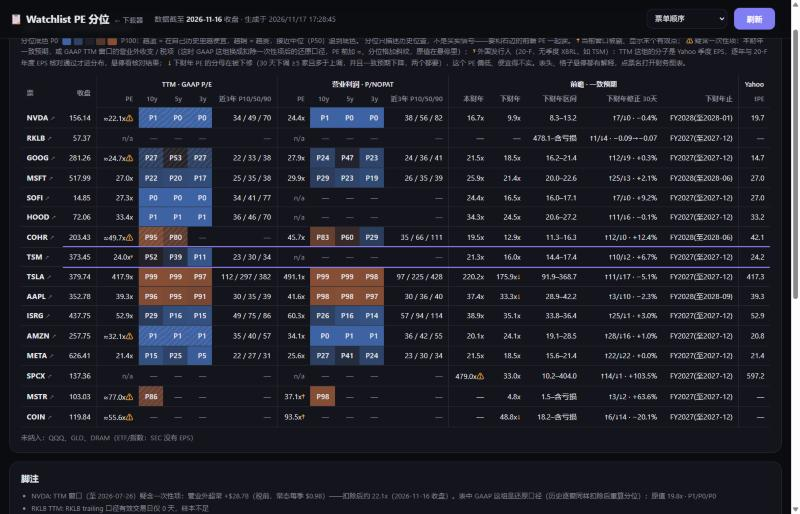
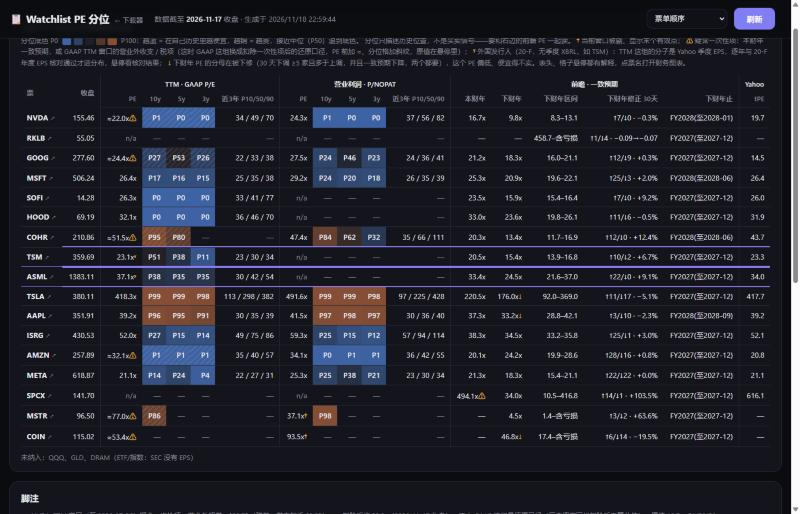
外国发行人兜底：Yahoo EPS 币种逐年判定（ASML 近年欧元、早年美元）
ASML 跑兜底时推不出换股比：Yahoo 季度 EPS 2013 年起是欧元（与 20-F 完全吻合），
之前是美元；TSM 则一直是每 ADR 美元。原实现一律当美元，ASML 近年全部「偏差 −11%」。
- crosscheck 每财年按「Yahoo 是美元」「Yahoo 是本币」两种假设比 20-F，取偏差小的，
  该年季度记成那个币种；20-F 之后的季度沿用最近可核对年份的币种
- 本币季度按当日汇率（{ccy}=X 日线）换美元，取不到汇率的日子跳过
- 换股比推断改为两种假设各自投票；ADR_RATIO 登记 ASML = 1
- 截图换成含 ASML 的一张；测试加币种逐年判定 / 当日汇率换算 / 年均汇率
ASML：37.1x · P38/P35/P35，20-F 核对 16/19 年通过（FY2025 Yahoo 24.73 vs 20-F 24.71 EUR）。

diff --git a/tests/test_foreign_band.py b/tests/test_foreign_band.py
@@ -67,39 +67,40 @@ def test_quarters_of_year_assigns_q4_announced_after_year_end():
 
 
 def test_infer_ratio():
-    assert fb.infer_ratio(QS, ANNUAL, FX) == 5
+    assert fb.infer_ratio(QS, ANNUAL, FX, "TWD") == 5
     # 换算对不上任何整比例 -> 不推断
     assert fb.infer_ratio(QS, {k: dict(v, val=v["val"] * 0.89) for k, v in ANNUAL.items()},
-                          FX) is None
+                          FX, "TWD") is None
 
 
 def test_crosscheck_and_accept():
     annual = dict(ANNUAL)
     annual["2022-12-31"] = {"val": 30.0, "filed": "2023-04-15"}   # 该年 Yahoo 偏差 −20%
-    checks = fb.crosscheck(QS, annual, FX, 5)
+    checks = fb.crosscheck(QS, annual, FX, 5, "TWD")
     assert [c["ok"] for c in checks] == [True, False, True, True]
     assert checks[1]["why"] == "偏差超限" and checks[1]["dev"] == pytest.approx(-0.2)
     ok, tail = fb.accepted_quarters(QS, checks)
-    assert tail == 1 and "2025-04-17" in ok                 # 20-F 之后的季度放行
-    assert not ok & {"2022-04-14", "2022-07-14", "2022-10-13", "2023-01-12"}  # 整年剔
+    assert tail == 1 and ok["2025-04-17"] == "USD"          # 20-F 之后的季度放行，沿用币种
+    assert {c["unit"] for c in checks if c["ok"]} == {"USD"}
+    assert not ok.keys() & {"2022-04-14", "2022-07-14", "2022-10-13", "2023-01-12"}  # 整年剔
 
 
 def test_latest_checked_year_failing_refuses_whole_band():
     annual = dict(ANNUAL)
     annual["2024-12-31"] = {"val": 30.0, "filed": "2025-04-15"}
-    ok, why = fb.accepted_quarters(QS, fb.crosscheck(QS, annual, FX, 5))
+    ok, why = fb.accepted_quarters(QS, fb.crosscheck(QS, annual, FX, 5, "TWD"))
     assert ok is None and "2024-12-31" in why
 
 
 def test_crosscheck_incomplete_year():
-    checks = fb.crosscheck(QS[:-6], ANNUAL, FX, 5)   # FY2024 只剩 1 季
+    checks = fb.crosscheck(QS[:-6], ANNUAL, FX, 5, "TWD")   # FY2024 只剩 1 季
     assert checks[-1]["why"].startswith("Yahoo 该财年") and not checks[-1]["ok"]
     ok, why = fb.accepted_quarters([], [dict(c, yahoo=None) for c in checks])
     assert ok is None
 
 
 def test_build_series_no_lookahead_and_gap():
-    ok = {q["date"] for q in QS}
+    ok = dict.fromkeys((q["date"] for q in QS), "USD")
     days = [date(2022, 1, 12), date(2022, 1, 13), date(2022, 1, 14)]
     s = fb.build_series(QS, ok, [(d, 40.0) for d in days])
     # 2022-01-13 公告的第 4 季：当天不算已知，次日起才有 4 季 TTM
@@ -109,7 +110,8 @@ def test_build_series_no_lookahead_and_gap():
     gappy = [q for q in QS if q["date"] != "2021-10-14"]
     assert fb.build_series(gappy, ok, [(date(2022, 1, 14), 40.0)]) == []
     # 未放行的季度在窗口里 -> 不算
-    assert fb.build_series(QS, ok - {"2021-07-15"}, [(date(2022, 1, 14), 40.0)]) == []
+    del ok["2021-07-15"]
+    assert fb.build_series(QS, ok, [(date(2022, 1, 14), 40.0)]) == []
 
 
 def test_summarize_series_windows():
@@ -134,8 +136,44 @@ def test_summarize_series_windows():
 
 
 def test_source_note():
-    checks = fb.crosscheck(QS, ANNUAL, FX, 5)
+    checks = fb.crosscheck(QS, ANNUAL, FX, 5, "TWD")
     m = {"xcheck": {"ccy": "TWD", "ratio": 5, "ratio_inferred": False, "tail": 1,
                     "years": checks, "n_ok": 4, "n": 4}}
     s = fb.source_note(m)
     assert "4/4" in s and "1 ADR = 5 股" in s and "1 季年报未出" in s
+
+
+# ASML 型：Yahoo 近年给本币（欧元）EPS、早年给美元；20-F 欧元、1 ADR = 1 股
+EUR_FX = 0.9
+EQ = ([{"date": d, "eps": 1.0 / EUR_FX} for d in QDATES[:4]]          # FY2021：Yahoo 美元
+      + [{"date": d, "eps": 1.0} for d in QDATES[4:]])                # FY2022 起：Yahoo 欧元
+EANN = {f"{y}-12-31": {"val": 4.0, "filed": f"{y + 1}-04-15"} for y in (2021, 2022, 2023, 2024)}
+EFX = {e: EUR_FX for e in EANN}
+
+
+def test_local_currency_years_detected_per_year():
+    assert fb.infer_ratio(EQ, EANN, EFX, "EUR") == 1
+    checks = fb.crosscheck(EQ, EANN, EFX, 1, "EUR")
+    assert [c["unit"] for c in checks] == ["USD", "EUR", "EUR", "EUR"]
+    assert all(c["ok"] for c in checks)
+    ok, tail = fb.accepted_quarters(EQ, checks)
+    assert ok["2021-04-15"] == "USD" and ok["2023-04-20"] == "EUR" and ok["2025-04-17"] == "EUR"
+
+
+def test_local_quarters_converted_at_daily_fx():
+    ok = dict.fromkeys((q["date"] for q in EQ), "EUR")
+    fx_at = fb.fx_lookup([(date(2024, 1, 1), 0.8)])
+    d = date(2024, 2, 1)
+    s = fb.build_series(EQ, ok, [(d, 50.0)], fx_at)
+    # 最近 4 季 = 4.0 欧元 ÷ 当日 0.8 = 5.0 美元 -> PE 10
+    assert s[0]["ttm_eps"] == pytest.approx(5.0) and s[0]["pe_trailing"] == pytest.approx(10.0)
+    # 当日之前没有汇率 -> 这天跳过，不拿缺失当 1
+    assert fb.build_series(EQ, ok, [(d, 50.0)], fb.fx_lookup([(date(2024, 3, 1), 0.8)])) == []
+    assert fb.build_series(EQ, ok, [(d, 50.0)]) == []
+
+
+def test_fx_annual():
+    daily = [(date(2024, 1, 1) + timedelta(days=i), 0.9) for i in range(366)]
+    assert fb.fx_annual({"2024-12-31": {}}, daily, "EUR") == {"2024-12-31": pytest.approx(0.9)}
+    assert fb.fx_annual({"2024-12-31": {}}, daily[:100], "EUR") == {}
+    assert fb.fx_annual({"2024-12-31": {}}, [], "USD") == {"2024-12-31": 1.0}
